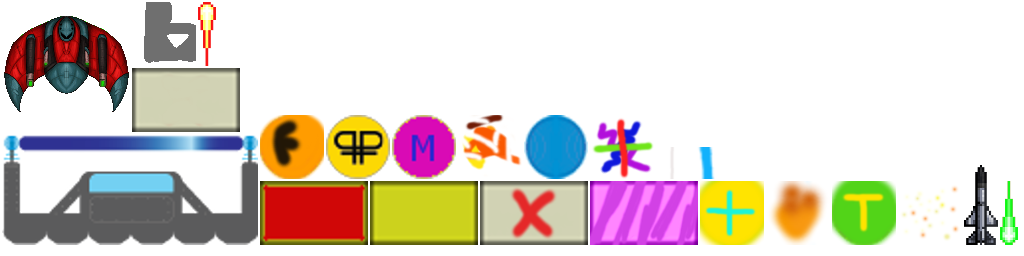
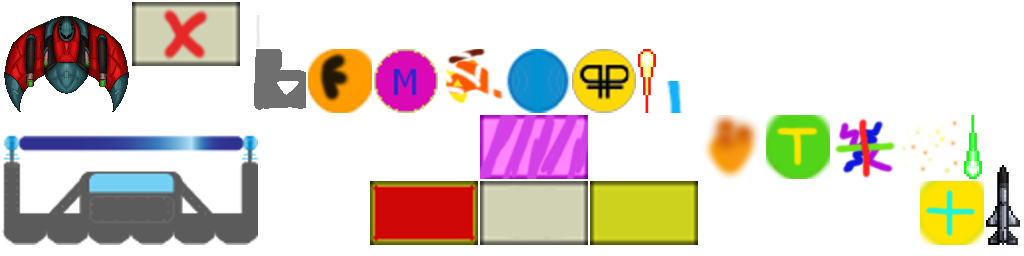
Added Brick Flash Animation
- Bricks that are hit by ball and not destroyed will play a flash animation.
- Created OneTimeAnimation class to handle animations that play once

diff --git a/core/src/com/your3wishes/game/Screens/GameScreen.java b/core/src/com/your3wishes/game/Screens/GameScreen.java
@@ -15,6 +15,7 @@ import com.badlogic.gdx.scenes.scene2d.Stage;
 import com.badlogic.gdx.utils.Array;
 import com.badlogic.gdx.utils.Pool;
 import com.badlogic.gdx.utils.viewport.StretchViewport;
+import com.your3wishes.game.Animations.OneTimeAnimation;
 import com.your3wishes.game.Ball;
 import com.your3wishes.game.Bricks.Brick;
 import com.your3wishes.game.Bricks.SolidBrick;
@@ -71,6 +72,9 @@ public class GameScreen implements Screen {
     private Explosion explosion;
     private final Array<Explosion> explosions;
     private final Pool<Explosion> explosionPool;
+    private OneTimeAnimation oneTimeAnimation;
+    private final Array<OneTimeAnimation> oneTimeAnimations;
+    private final Pool<OneTimeAnimation> oneTimeAnimationPool;
     private EnemyHit enemyHit;
     private final Array<EnemyHit> enemyHits;
     private final Pool<EnemyHit> enemyHitPool;
@@ -101,7 +105,7 @@ public class GameScreen implements Screen {
     private Coin coin;
     private int score;
     private int coinsCollected;
-    private int level = 1;
+    private int level = 3;
     private int entitiesLeft;
     private final Array<Coin> coins;
     private final Pool<Coin> coinPool;
@@ -234,6 +238,15 @@ public class GameScreen implements Screen {
             @Override
             protected  EnemyHit newObject() {
                 return new EnemyHit(game.assets);
+            }
+        };
+
+        // Initialize one time animations
+        oneTimeAnimations = new Array<OneTimeAnimation>();
+        oneTimeAnimationPool = new Pool<OneTimeAnimation>() {
+            @Override
+            protected  OneTimeAnimation newObject() {
+                return new OneTimeAnimation(game.assets);
             }
         };
 
@@ -496,6 +509,14 @@ public class GameScreen implements Screen {
         }
     }
 
+    private void spawnFlashAnimation(Brick brick) {
+        oneTimeAnimation = oneTimeAnimationPool.obtain();
+        oneTimeAnimation.setAnimation("flash");
+        oneTimeAnimation.setPosition(brick.getX(), brick.getY());
+        oneTimeAnimations.add(oneTimeAnimation);
+        stage.addActor(oneTimeAnimation);
+    }
+
     private void spawnMissile(Vector2 touchPos) {
         missile = missilePool.obtain();
         missile.setPosition(paddle.getX() + (paddle.getHeight() * paddle.getScaleX() / 2) - (missile.getWidth() * missile.getScaleX() / 2),
@@ -596,6 +617,7 @@ public class GameScreen implements Screen {
         freeItems(powerups, powerupPool);
         freeItems(explosions, explosionPool);
         freeItems(enemyHits, enemyHitPool);
+        freeItems(oneTimeAnimations, oneTimeAnimationPool);
         freeItems(balls, ballPool);
         freeItems(damageExplosions, damageExplosionPool);
         freeItems(fireballs, fireballPool);
@@ -725,6 +747,10 @@ public class GameScreen implements Screen {
 //                        // Move to next brick. No use checking other balls against this brick if it is now destroyed.
 //                        break;
                     }
+                    else {
+                        spawnFlashAnimation(brick);
+                    }
+
                 }
             }
         }
@@ -743,10 +769,10 @@ public class GameScreen implements Screen {
                     brick.bulletHit(item.getDamage());
                     if (!brick.alive) {
                         removeBrick(iterator, brick);
+                        score+=2;
                         // Move to next brick. No use checking other bullets against this brick if it is now destroyed.
                         break;
                     }
-                    score+=2;
                     spawnEnemyHitParticle(item.getX() + (item.getWidth() * item.getScaleX() / 2), item.getY() + (item.getHeight() * item.getScaleY()));
                 }
             }

diff --git a/core/src/com/your3wishes/game/Animations/OneTimeAnimation.java b/core/src/com/your3wishes/game/Animations/OneTimeAnimation.java
@@ -1,0 +1,67 @@
+package com.your3wishes.game.Animations;
+
+import com.badlogic.gdx.Gdx;
+import com.badlogic.gdx.graphics.Color;
+import com.badlogic.gdx.graphics.g2d.Animation;
+import com.badlogic.gdx.graphics.g2d.Batch;
+import com.badlogic.gdx.graphics.g2d.TextureAtlas;
+import com.badlogic.gdx.graphics.g2d.TextureRegion;
+import com.badlogic.gdx.graphics.glutils.ShapeRenderer;
+import com.badlogic.gdx.scenes.scene2d.Actor;
+import com.badlogic.gdx.utils.Pool;
+import com.your3wishes.game.Freeable;
+import com.your3wishes.game.MyGame;
+import com.your3wishes.game.Utilities.Assets;
+
+/**
+ * Created by Your3Wishes on 8/28/2017.
+ */
+
+public class OneTimeAnimation extends Actor implements Pool.Poolable, Freeable {
+
+    private Animation<TextureRegion> animation;
+    private TextureRegion currentFrame;
+    private boolean alive = true;
+    private TextureAtlas atlas;
+    private float frameTime;
+    private float stateTime;
+
+    public OneTimeAnimation(Assets assets) {
+        atlas = assets.assetManager.get("gameScreen.atlas", TextureAtlas.class);
+        stateTime = 0f;
+    }
+
+    public void setAnimation(String atlasRegion) {
+        animation = new Animation<TextureRegion>(0.015f, atlas.findRegions(atlasRegion), Animation.PlayMode.NORMAL);
+    }
+
+    @Override
+    public void draw (Batch batch, float parentAlpha) {
+        stateTime += Gdx.graphics.getDeltaTime();
+        currentFrame = animation.getKeyFrame(stateTime, false);
+        batch.draw(currentFrame,getX(),getY());
+    }
+
+    @Override
+    public void act(float delta) {
+        if (animation.isAnimationFinished(stateTime)) {
+            alive = false;
+        }
+    }
+
+    @Override
+    public void reset() {
+        alive = true;
+        stateTime = 0f;
+    }
+
+    @Override
+    public boolean isAlive() {
+        return alive;
+    }
+
+    @Override
+    public void removeFromStage() {
+        this.remove();
+    }
+}

diff --git a/core/src/com/your3wishes/game/Utilities/Assets.java b/core/src/com/your3wishes/game/Utilities/Assets.java
@@ -16,7 +16,6 @@ public class Assets {
 
     public void load() {
         assetManager.load("gameScreen.atlas", TextureAtlas.class);
-
     }
 
     public void dispose() {
